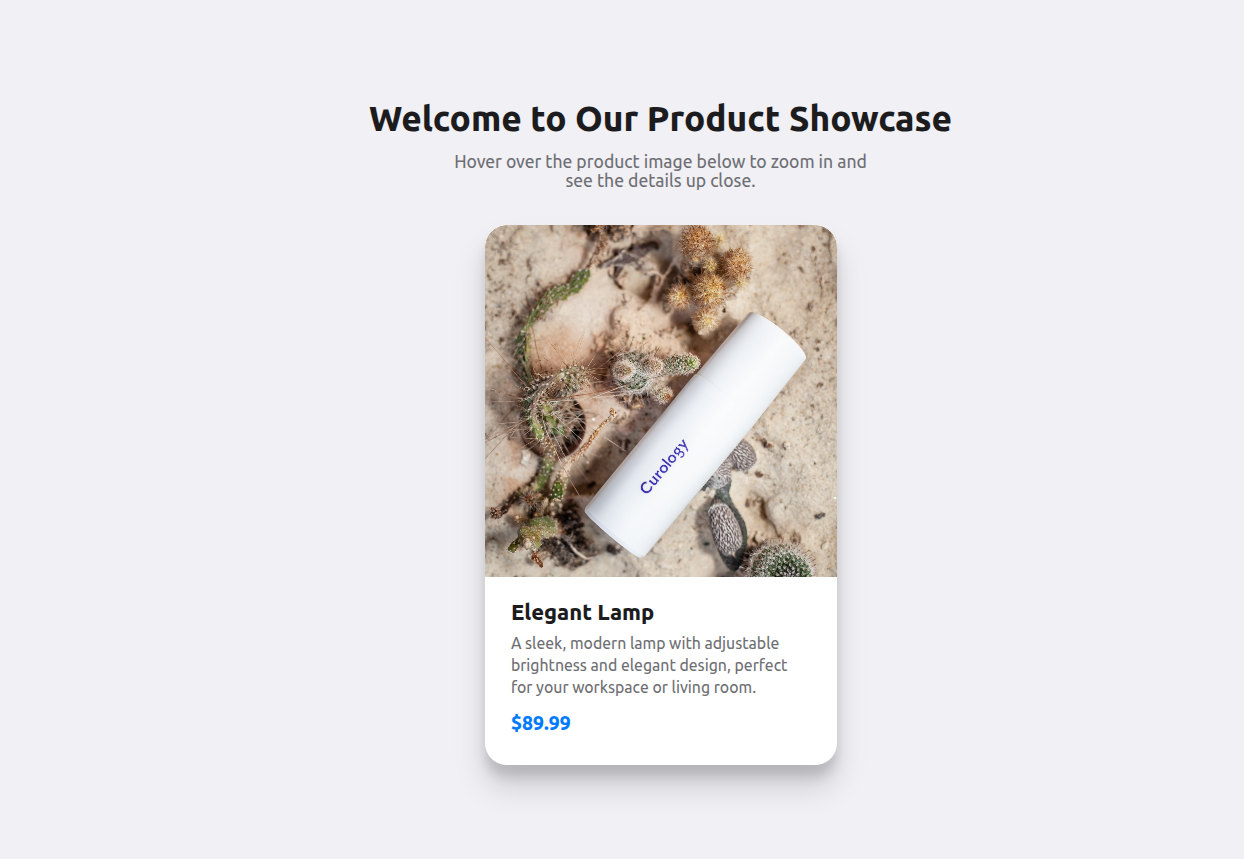
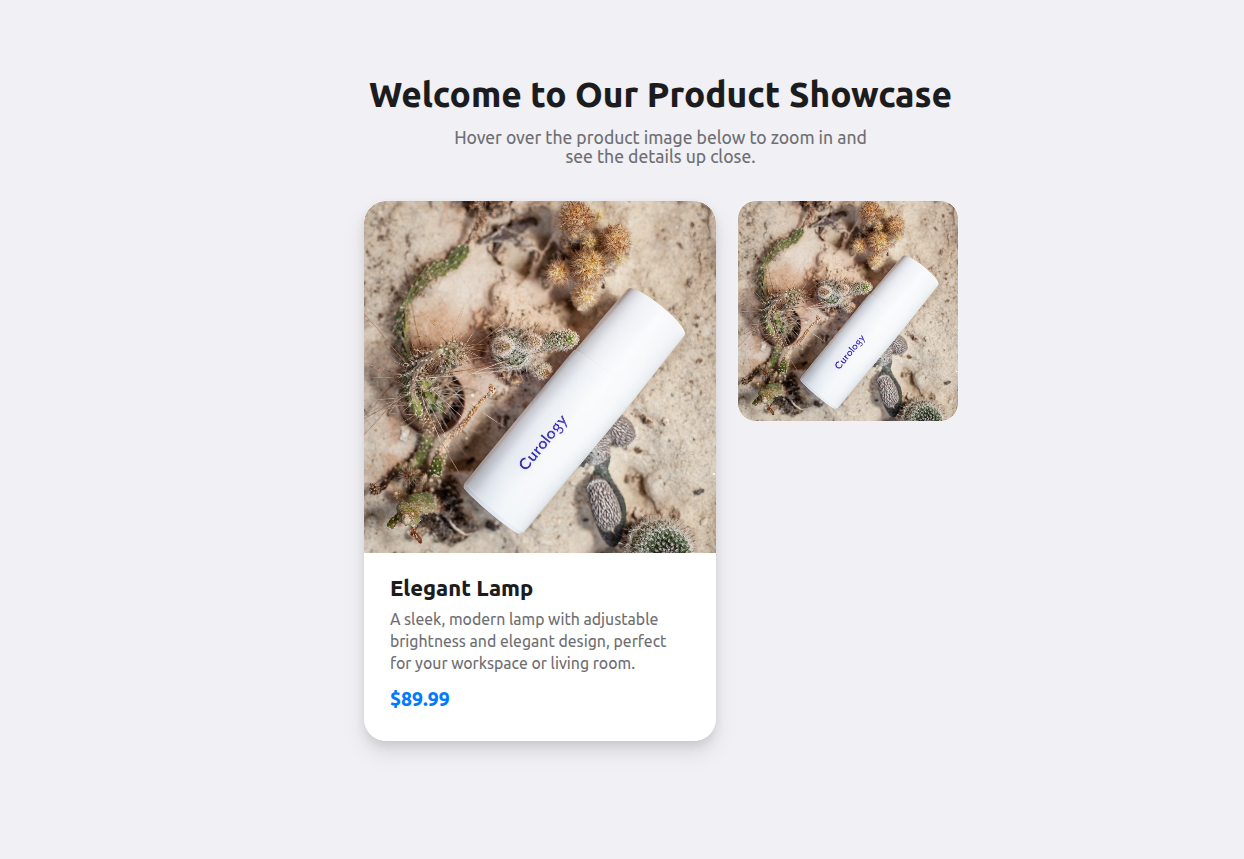
update

Changed region(s): [[0.2749, 0.0908, 0.7942, 0.9383]]

diff --git a/image_style/zoom image/1.html b/image_style/zoom image/1.html
@@ -1,9 +1,10 @@
 <!DOCTYPE html>
 <html lang="en">
+
 <head>
   <meta charset="UTF-8" />
   <meta name="viewport" content="width=device-width, initial-scale=1" />
-  <title>iOS Style Product Card with Zoom</title>
+  <title>iOS Style Product Card with Zoom Attribute</title>
   <style>
     body {
       font-family: -apple-system, BlinkMacSystemFont, "Segoe UI", Roboto,
@@ -34,6 +35,13 @@
       text-align: center;
     }
 
+    .card-container {
+      display: flex;
+      flex-wrap: wrap;
+      justify-content: center;
+      gap: 20px;
+    }
+
     .product-card {
       background: #fff;
       width: 320px;
@@ -61,19 +69,25 @@
       border-top-right-radius: 20px;
     }
 
-    .container img {
+
+    /* Base image style */
+    img {
       width: 100%;
       height: 100%;
       object-fit: cover;
-      background-repeat: no-repeat;
-      background-size: cover;
-      transform: scale(1);
-      transition: transform 0.5s ease-in-out;
-      transform-origin: center;
+      display: block;
       border-top-left-radius: 20px;
       border-top-right-radius: 20px;
+    }
+
+    /* Only apply zoom behavior to those with image-zoom */
+    img[image-zoom] {
+      transition: transform 0.5s ease-in-out;
+      transform: scale(1);
+      transform-origin: center;
       will-change: transform;
     }
+
 
     .product-info {
       padding: 20px 24px 28px;
@@ -98,49 +112,70 @@
       font-weight: 700;
       color: #007aff;
     }
+
+    .main {
+      width: 200px;
+      height: 200px;
+      overflow: hidden;
+      border-radius: 16px;
+    }
+
+    .main img {
+      border-radius: 16px;
+    }
   </style>
 </head>
+
 <body>
   <h1>Welcome to Our Product Showcase</h1>
   <p class="intro">Hover over the product image below to zoom in and see the details up close.</p>
 
-  <div class="product-card" tabindex="0" role="group" aria-label="Product card with zoomable image">
-    <div class="container">
+  <div class="card-container" >
+    <div class="product-card" tabindex="0" role="group" aria-label="Product card with zoomable image">
+      <div class="container">
+        <img
+          src="https://images.unsplash.com/photo-1556228578-8c89e6adf883?q=80&w=1974&auto=format&fit=crop&ixlib=rb-4.0.3&ixid=M3wxMjA3fDB8MHxwaG90by1wYWdlfHx8fGVufDB8fHx8fA%3D%3D"
+          alt="Stylish Product" image-zoom />
+      </div>
+      <div class="product-info">
+        <h2 class="product-title">Elegant Lamp</h2>
+        <p class="product-description">
+          A sleek, modern lamp with adjustable brightness and elegant design,
+          perfect for your workspace or living room.
+        </p>
+        <div class="product-price">$89.99</div>
+      </div>
+    </div>
+    <div class="main">
       <img
         src="https://images.unsplash.com/photo-1556228578-8c89e6adf883?q=80&w=1974&auto=format&fit=crop&ixlib=rb-4.0.3&ixid=M3wxMjA3fDB8MHxwaG90by1wYWdlfHx8fGVufDB8fHx8fA%3D%3D"
-        alt="Stylish Product"
-      />
-    </div>
-    <div class="product-info">
-      <h2 class="product-title">Elegant Lamp</h2>
-      <p class="product-description">
-        A sleek, modern lamp with adjustable brightness and elegant design,
-        perfect for your workspace or living room.
-      </p>
-      <div class="product-price">$89.99</div>
+        alt="Stylish Product" image-zoom />
     </div>
   </div>
 
   <script>
-    const container = document.querySelector('.container');
-    const img = container.querySelector('img');
+    // Apply zoom effect to all images with the 'image-zoom' attribute
+    document.querySelectorAll('img[image-zoom]').forEach(img => {
+      const container = img.parentElement;
 
-    container.addEventListener('mousemove', (e) => {
-      const rect = container.getBoundingClientRect();
-      const x = (e.clientX - rect.left) / rect.width;
-      const y = (e.clientY - rect.top) / rect.height;
+      container.addEventListener('mousemove', (e) => {
+        const rect = container.getBoundingClientRect();
+        const x = (e.clientX - rect.left) / rect.width;
+        const y = (e.clientY - rect.top) / rect.height;
+        img.style.transformOrigin = `${x * 100}% ${y * 100}%`;
+      });
 
-      img.style.transformOrigin = `${x * 100}% ${y * 100}%`;
+      container.addEventListener('mouseover', () => {
+        img.style.transform = 'scale(4)';
+      });
+
+      container.addEventListener('mouseout', () => {
+        img.style.transform = 'scale(1)';
+        img.style.transformOrigin = 'center';
+      });
     });
 
-    container.addEventListener('mouseover', () => {
-      img.style.transform = 'scale(4)';
-    });
-
-    container.addEventListener('mouseout', () => {
-      img.style.transform = 'scale(1)';
-      img.style.transformOrigin = 'center';
-    });
   </script>
 </body>
+
 </html>
